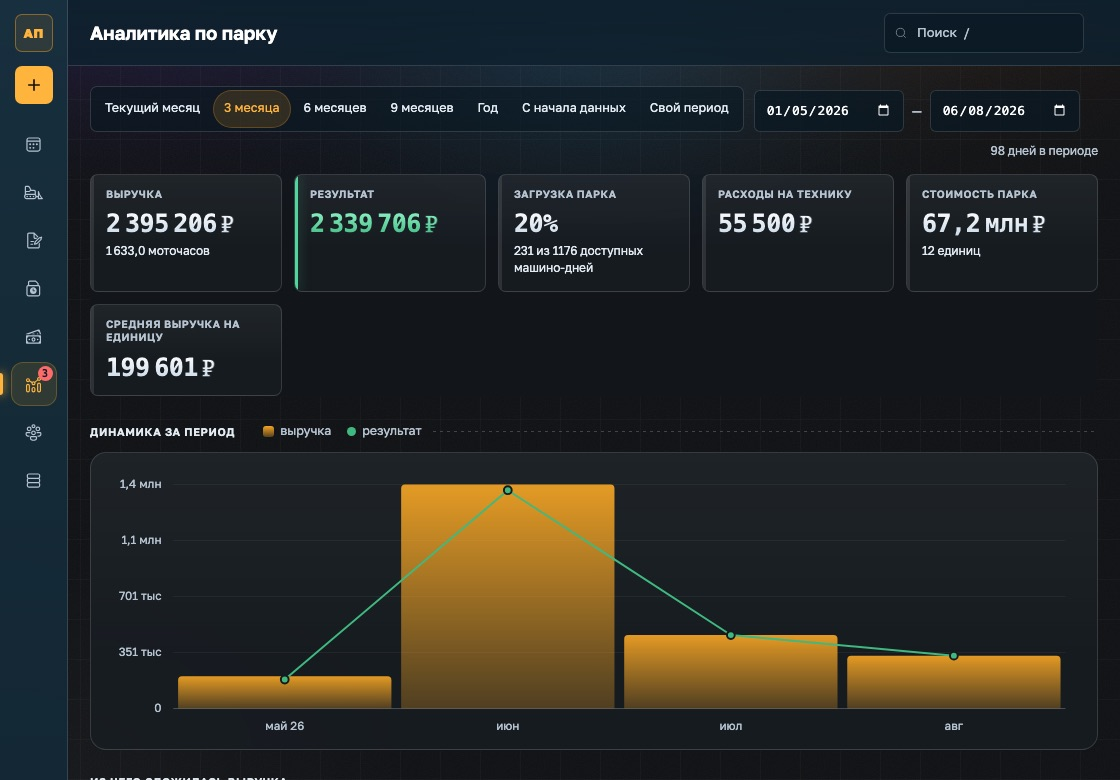
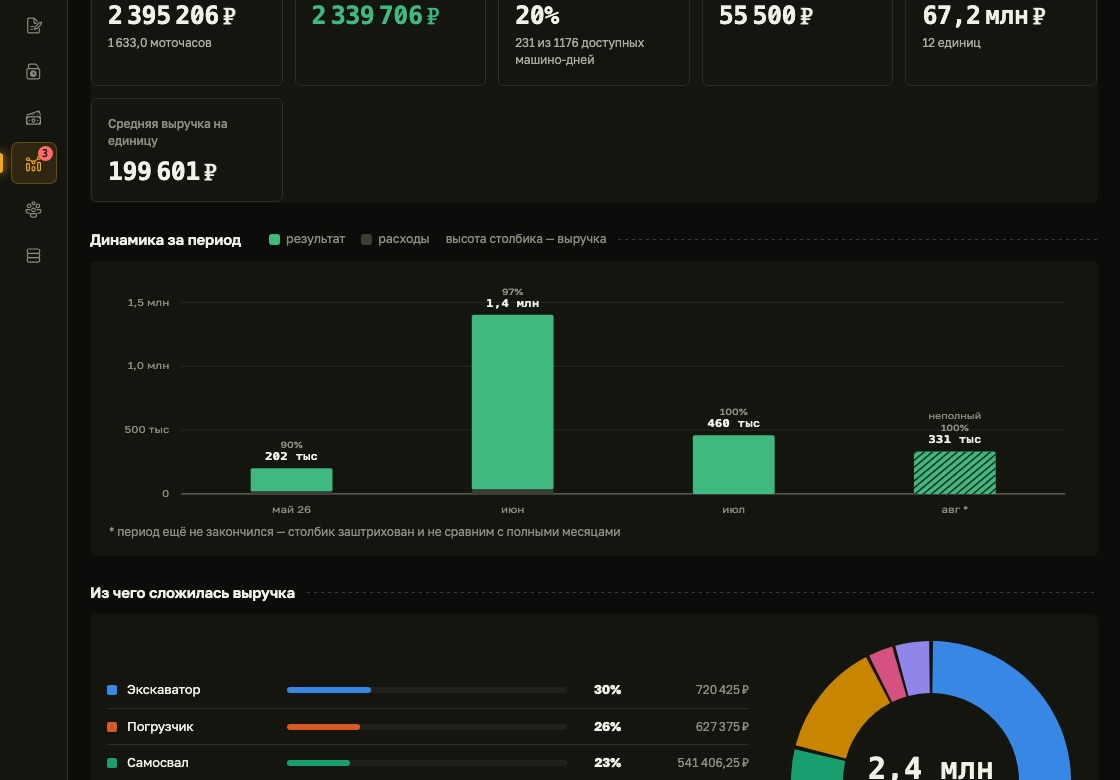
Near-fullscreen demo cards, and park re-shot on its analytics frame
Cards go 620 -> 940 (avail/1.62), deck height 620 -> 780. At a 1440 viewport a
card is now 889x620, so the software inside is legible rather than suggested -
his ask, twice: the card should show the full shot of the software.

Park's card is re-shot against the rebuilt demo, framed exactly where he asked:
the analytics screen cropped at y=210 so the KPI row is clipped at the top, the
Динамика за период chart sits as the hero, and the donut enters at the bottom
edge. The crop is deterministic (ffmpeg, top-left origin) rather than eyeballed;
sips crops from the centre, which is why the first attempt framed the wrong band.

Shot was taken with the server rooted at app/public, not demo/ - from demo/ the
three self-hosted fonts 404 and every capture silently renders in system-ui.
The new shot shows the nice tick values (500 тыс / 1,0 млн / 1,5 млн) and the
hatched incomplete-August bar, so the audit fixes are visible on the card itself.

Trade-off, stated plainly: at this size four fanned cards cover each other's
captions, and only the front card's title reads without hovering.

diff --git a/app/src/v2/v2.css b/app/src/v2/v2.css
@@ -449,7 +449,7 @@ html.v2light{--slogan:linear-gradient(100deg,#8A7261,#5C4536 46%,#33241A)}
 /* THE DECK BLEEDS PAST THE TEXT COLUMN. Four landscape cards need more room to fan than a
    reading measure allows; confined to the column each one buried the next one's title. The deck
    is a picture, not prose, so it takes the full viewport and the text around it stays put. */
-.v2 .projects,.projects{position:relative;height:min(620px,40vw);margin:44px 0 8px;
+.v2 .projects,.projects{position:relative;height:min(780px,52vw);margin:44px 0 8px;
   width:100vw;margin-left:calc(50% - 50vw);margin-right:calc(50% - 50vw);perspective:1500px}
 /* THE CARD IS THE SHAPE OF THE SCREENSHOT. It used to be a square holding a 1120x780 landscape
    picture, so the product was always shown cropped or letterboxed - his words: each one should

diff --git a/app/src/hooks/useCardFan.ts b/app/src/hooks/useCardFan.ts
@@ -20,7 +20,7 @@ export function useCardFan(): void {
        which is the entire job of the deck. */
     function cardW() {
       const avail = wrap!.clientWidth
-      return Math.round(Math.max(300, Math.min(620, avail / 2.45)))
+      return Math.round(Math.max(340, Math.min(940, avail / 1.62)))
     }
     /* 0.92 left a margin the fan did not need. At the full viewport width the cards can use the
        whole span, and every extra pixel here is a pixel of the next card's title that stops
